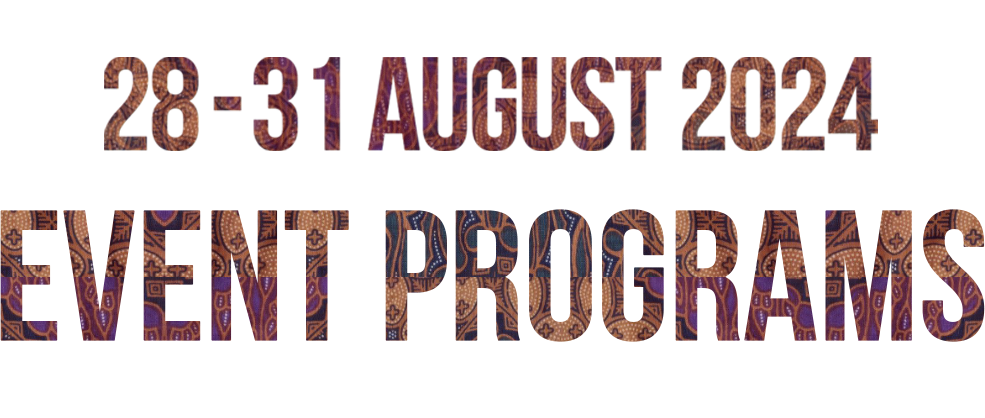
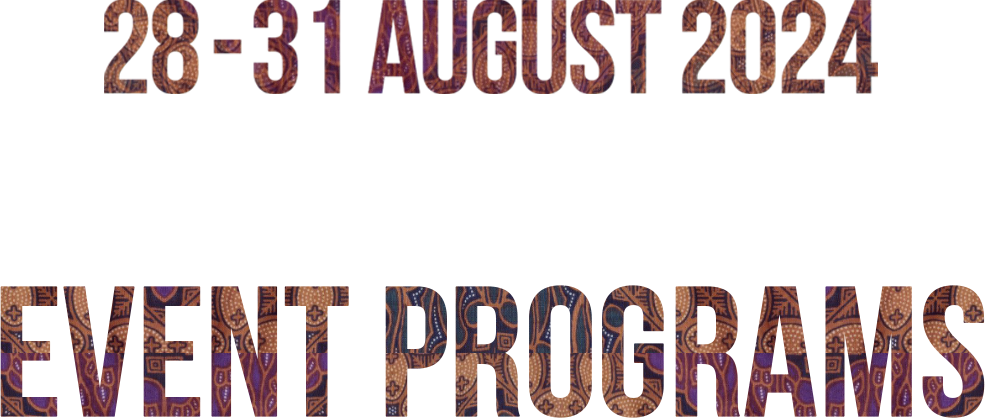
adjust gambar

diff --git a/index.html b/index.html
@@ -15,14 +15,12 @@
     <link rel="preconnect" href="https://fonts.googleapis.com">
     <link rel="preconnect" href="https://fonts.gstatic.com" crossorigin>
 
-
      <!-- favicon icon -->
      <link rel="icon" href="favicon/favicon.png">
      <link rel="apple-touch-icon" sizes="180x180" href="favicon/apple-touch-icon.png">
      <link rel="icon" type="image/png" sizes="32x32" href="favicon/favicon-32x32.png">
      <link rel="icon" type="image/png" sizes="16x16" href="favicon/favicon-16x16.png">
      <link rel="manifest" href="favicon/site.webmanifest">
-
 </head>
 
 <body>
@@ -31,14 +29,14 @@
     <nav class="navbar navbar-expand-lg">
       <div class="container-fluid">
         <a class="navbar-brand" style="position: absolute;
-        left: 50%; transform: translateX(-50%);top:200px;" href="#"><img src="img/logo.png"></a>
+        left: 50%; transform: translateX(-50%);top:150px;" href="#"><img src="img/logo.png"></a>
       </div>
     </nav>
   </div>
 
   
   <div class="container-fluid navigasi">
-    <div class="align-self-center gap-5" style="display: flex; position: absolute; top:750px;">
+    <div class="align-self-center" style="position: absolute; top:750px;">
       <a href="#"><img src="img/event.png" class="img-link"></a>
     </div>
   </div>
@@ -55,8 +53,8 @@
   <!-- Menu -->
 
   <div class="container-fluid navigasi">
-    <div class="align-self-center gap-5" style="display: flex; position: absolute; top:4300px; bottom: 85%;">
-      <a href="#"><img src="img/home.png" class="img-link"></a>
+    <div class="align-self-center" style="display: flex; position: absolute; top:4250px; bottom: 80%;">
+      <a href="#"><img src="img/home.png" class="img-link" style="margin-right: 500px;"></a>
       <a href="#"><img src="img/back.png" class="img-link"></a>
     </div>
   </div>

diff --git a/library/style.css b/library/style.css
@@ -23,11 +23,11 @@ body{
   align-items: center;
   height: 100vh;
   position:absolute;
-  bottom: 200px;
+  bottom: 110px;
 }
 
 .menu a{
-  margin: 40px;
+  margin: 50px;
 }
 
 .navigasi{
